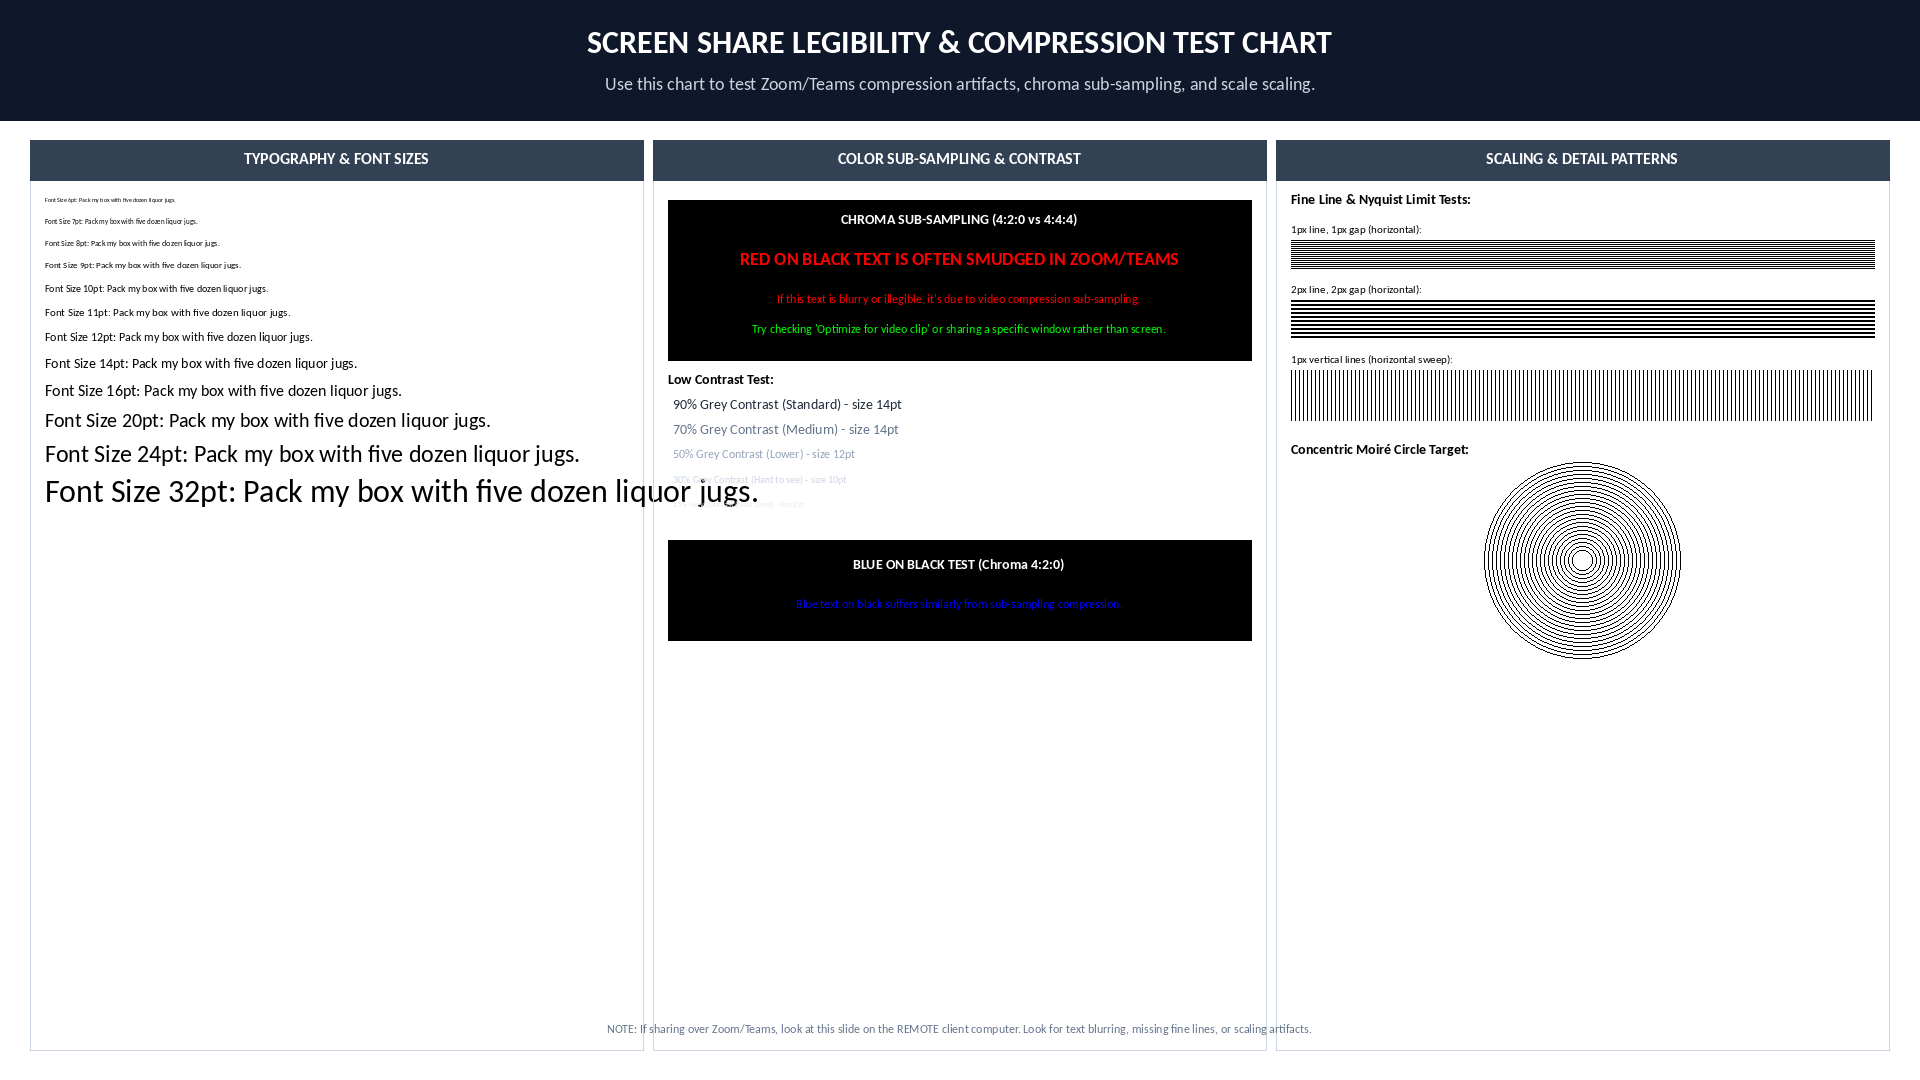
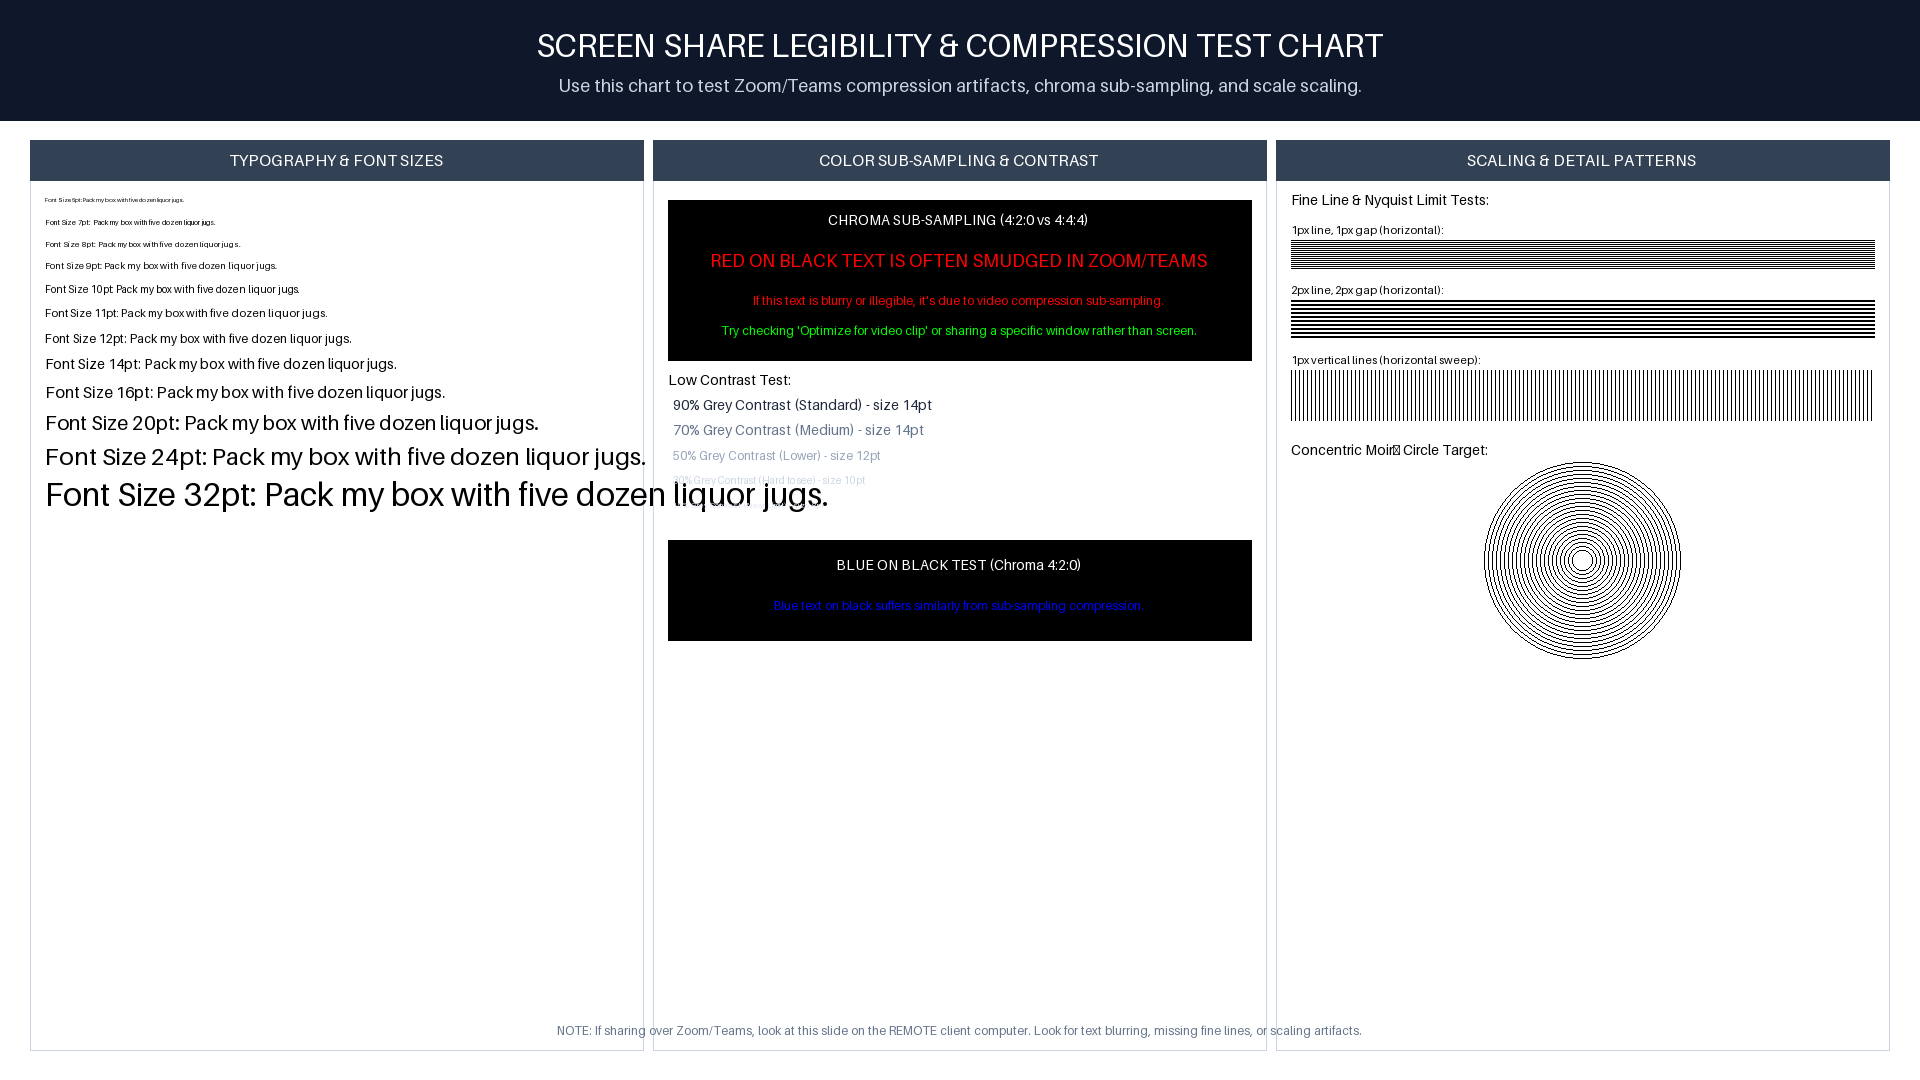
feat: add judder test and color bars loop generators

diff --git a/05_Docs_&_Checklists/generate_toolkit.py b/05_Docs_&_Checklists/generate_toolkit.py
@@ -12,6 +12,7 @@ SCRIPT_DIR = os.path.dirname(os.path.abspath(__file__))
 BASE_DIR = os.path.dirname(SCRIPT_DIR)  # This will be /home/user/Desktop/test_media_toolkit
 AUDIO_DIR = os.path.join(BASE_DIR, "01_Audio_&_Sync")
 DISPLAY_DIR = os.path.join(BASE_DIR, "02_Display_Calibration")
+LOOPS_DIR = os.path.join(BASE_DIR, "03_Looping_Video_Backgrounds")
 TEMP_FRAMES_DIR = os.path.join(BASE_DIR, "temp_frames")
 
 # Fonts
@@ -547,10 +548,229 @@ def generate_av_sync_video(output_mp4, duration=15):
         
     print(f"AV Sync Video generated successfully at: {output_mp4}")
 
+def generate_judder_test_video(output_mp4, duration=10, fps=60):
+    print("Preparing to build Judder & Refresh Rate Video...")
+    os.makedirs(TEMP_FRAMES_DIR, exist_ok=True)
+    
+    total_frames = duration * fps
+    width, height = 1920, 1080
+    
+    font_title = load_font(FONT_BOLD_PATH, 36)
+    font_subtitle = load_font(FONT_REGULAR_PATH, 20)
+    font_bold_mid = load_font(FONT_BOLD_PATH, 24)
+    font_reg_mid = load_font(FONT_REGULAR_PATH, 18)
+    
+    print(f"Drawing {total_frames} video frames at {fps} FPS...")
+    for i in range(total_frames):
+        t_sec = i / fps
+        
+        # Dark background (slate-950)
+        bg_color = (9, 15, 26)
+        image = Image.new("RGB", (width, height), bg_color)
+        draw = ImageDraw.Draw(image)
+        
+        # 1. Header Information
+        draw.text((width // 2, 60), f"DISPLAY REFRESH RATE & JUDDER TEST ({fps} FPS)", font=font_title, fill="white", anchor="mm")
+        draw.text((width // 2, 110), "The red bar should move with perfect smoothness. Stuttering indicates judder/dropped frames.", font=font_subtitle, fill="#94a3b8", anchor="mm")
+        
+        # 2. Draw static reference grid (makes judder / stutter extremely obvious)
+        grid_y_start = 220
+        grid_y_end = 860
+        for gx in range(160, width - 150, 80):
+            draw.line([(gx, grid_y_start), (gx, grid_y_end)], fill="#1e293b", width=1)
+            
+        # 3. Calculate bar position (bouncing left-to-right using a triangle wave or smooth cosine wave)
+        # Bounce cycle: every 2.0 seconds
+        cycle_period = 2.0
+        # Normalised cycle position [0, 1]
+        cycle_pos = (t_sec % cycle_period) / cycle_period
+        # Smooth cosine interpolation
+        pos_ratio = 0.5 - 0.5 * math.cos(2 * math.pi * cycle_pos)
+        
+        track_width = 1600
+        start_x = (width - track_width) // 2
+        bar_width = 24
+        bar_x = int(start_x + pos_ratio * (track_width - bar_width))
+        
+        # Draw moving red bar with white outline
+        draw.rectangle([bar_x, grid_y_start, bar_x + bar_width, grid_y_end], fill="#ef4444", outline="white", width=2)
+        
+        # 4. Calibration Instructions
+        help_box_y = 900
+        draw.rectangle([width // 2 - 600, help_box_y, width // 2 + 600, help_box_y + 110], fill="#0f172a", outline="#334155")
+        draw.text((width // 2 - 580, help_box_y + 25), "JUDDER & V-SYNC CHECK:", font=font_bold_mid, fill="#38bdf8")
+        
+        instructions = [
+            f"- Video encoded at {fps} FPS. Confirm your display is set to 60Hz or higher.",
+            "- Micro-stutters: If the bar seems to hitch or skip, check for PC hardware decoding bottleneck.",
+            "- Screen Tearing: Horizontal tearing line across the bar indicates disabled V-Sync or buffer mismatch."
+        ]
+        curr_inst_y = help_box_y + 55
+        for inst in instructions:
+            draw.text((width // 2 - 580, curr_inst_y), inst, font=font_reg_mid, fill="white", anchor="lm")
+            curr_inst_y += 22
+            
+        # 5. Status footer
+        status_text = f"Frame: {i:03d} / {total_frames} | Time: {t_sec:.2f}s | Speed: {fps} FPS"
+        draw.text((width // 2, height - 35), status_text, font=font_reg_mid, fill="#64748b", anchor="mm")
+        
+        frame_name = os.path.join(TEMP_FRAMES_DIR, f"frame_{i:04d}.png")
+        image.save(frame_name)
+        
+    print("Ffmpeg encoding video...")
+    # Standard format: H.264 MP4 with NO audio stream (ideal for clean looping background video)
+    cmd = [
+        "ffmpeg", "-y",
+        "-r", str(fps),
+        "-i", os.path.join(TEMP_FRAMES_DIR, "frame_%04d.png"),
+        "-c:v", "libx264",
+        "-pix_fmt", "yuv420p",
+        "-an", # No audio track for loops
+        output_mp4
+    ]
+    
+    result = subprocess.run(cmd, stdout=subprocess.PIPE, stderr=subprocess.PIPE, text=True)
+    if result.returncode != 0:
+        print("FFmpeg error output:")
+        print(result.stderr)
+        raise RuntimeError("FFmpeg compilation failed.")
+        
+    # Clean up temp frames directory
+    if os.path.exists(TEMP_FRAMES_DIR):
+        shutil.rmtree(TEMP_FRAMES_DIR)
+        
+    print(f"Judder Test Video generated successfully at: {output_mp4}")
+
+def generate_color_bars_loop(output_mp4, duration=10, fps=30, audio_ref_path=None):
+    print("Preparing to build Moving Color Bars Video...")
+    os.makedirs(TEMP_FRAMES_DIR, exist_ok=True)
+    
+    total_frames = duration * fps
+    width, height = 1920, 1080
+    
+    font_bold = load_font(FONT_BOLD_PATH, 24)
+    font_reg = load_font(FONT_REGULAR_PATH, 16)
+    
+    # 7 standard colors for the top bars
+    bar_colors = [
+        (192, 192, 192), # Light Gray / White
+        (192, 192, 0),   # Yellow
+        (0, 192, 192),   # Cyan
+        (0, 192, 0),     # Green
+        (192, 0, 192),   # Magenta
+        (192, 0, 0),     # Red
+        (0, 0, 192)      # Blue
+    ]
+    bar_width = width // len(bar_colors)
+    
+    print(f"Drawing {total_frames} video frames at {fps} FPS...")
+    for i in range(total_frames):
+        t_sec = i / fps
+        image = Image.new("RGB", (width, height), "black")
+        draw = ImageDraw.Draw(image)
+        
+        # 1. Top 70% color bars
+        bars_height = int(height * 0.7)
+        for idx, color in enumerate(bar_colors):
+            x1 = idx * bar_width
+            x2 = x1 + bar_width if idx < len(bar_colors) - 1 else width
+            draw.rectangle([x1, 0, x2, bars_height], fill=color)
+            
+        # 2. Middle 10% black/white strip
+        mid_height = int(height * 0.8)
+        sq_width = width // 10
+        for s_idx in range(10):
+            s_color = (255, 255, 255) if s_idx % 2 == 0 else (0, 0, 0)
+            draw.rectangle([s_idx * sq_width, bars_height, (s_idx + 1) * sq_width, mid_height], fill=s_color)
+            
+        # 3. Bottom 20% PLUGE calibration pattern & info
+        draw.rectangle([0, mid_height, width, height], fill=(16, 16, 16)) # Standard dark-gray background
+        
+        # Draw PLUGE bars on the bottom left
+        # Standard calibration blocks: -4% (Black 4), 0% (Black 16), +4% (Black 28)
+        pluge_x = 50
+        pluge_y = mid_height + 20
+        pluge_h = height - mid_height - 40
+        
+        # Block 1: -4% Black (Very dark)
+        draw.rectangle([pluge_x, pluge_y, pluge_x + 100, pluge_y + pluge_h], fill=(4, 4, 4))
+        draw.text((pluge_x + 50, pluge_y + pluge_h // 2), "-4% (BLOCKED)", font=font_reg, fill="grey", anchor="mm")
+        
+        # Block 2: 0% Reference Black
+        draw.rectangle([pluge_x + 110, pluge_y, pluge_x + 210, pluge_y + pluge_h], fill=(16, 16, 16))
+        draw.text((pluge_x + 160, pluge_y + pluge_h // 2), "0% (REF BLACK)", font=font_reg, fill="white", anchor="mm")
+        
+        # Block 3: +4% Black (Visible grey)
+        draw.rectangle([pluge_x + 220, pluge_y, pluge_x + 320, pluge_y + pluge_h], fill=(28, 28, 28))
+        draw.text((pluge_x + 270, pluge_y + pluge_h // 2), "+4% (VISIBLE)", font=font_reg, fill="white", anchor="mm")
+        
+        # Draw Calibration Help Text in bottom right
+        info_x = width - 50
+        draw.text((info_x, mid_height + 40), "REFERENCE COLOR BARS & PLUGE PATTERN", font=font_bold, fill="white", anchor="rm")
+        draw.text((info_x, mid_height + 70), "Adjust brightness until '-4%' matches 0% background, and '+4%' is barely visible.", font=font_reg, fill="#94a3b8", anchor="rm")
+        draw.text((info_x, mid_height + 95), f"Duration: {duration}s | {fps} FPS | Reference Tone: 1kHz @ -20dBFS", font=font_reg, fill="#64748b", anchor="rm")
+        
+        # 4. Moving block overlay (Confirms video stream is active, not frozen)
+        # Bounces horizontally in the middle of the color bars
+        block_size = 80
+        bounce_period = 3.0 # bounces every 3 seconds
+        bounce_pos = (t_sec % bounce_period) / bounce_period
+        pos_ratio = 0.5 - 0.5 * math.cos(2 * math.pi * bounce_pos)
+        
+        block_x = int(50 + pos_ratio * (width - 100 - block_size))
+        block_y = bars_height - block_size - 30
+        
+        # Draw bouncing block: white border, black background, red text
+        draw.rectangle([block_x, block_y, block_x + block_size, block_y + block_size], fill="black", outline="white", width=3)
+        draw.text((block_x + block_size // 2, block_y + block_size // 2), f"{i:03d}", font=font_bold, fill="#ef4444", anchor="mm")
+        
+        frame_name = os.path.join(TEMP_FRAMES_DIR, f"frame_{i:04d}.png")
+        image.save(frame_name)
+        
+    print("Ffmpeg encoding video with sync reference audio...")
+    # Assembly: combine frames with the provided reference audio
+    cmd = [
+        "ffmpeg", "-y",
+        "-r", str(fps),
+        "-i", os.path.join(TEMP_FRAMES_DIR, "frame_%04d.png")
+    ]
+    
+    if audio_ref_path and os.path.exists(audio_ref_path):
+        cmd.extend([
+            "-i", audio_ref_path,
+            "-c:v", "libx264",
+            "-pix_fmt", "yuv420p",
+            "-c:a", "aac",
+            "-b:a", "192k",
+            "-shortest" # stops when either video or audio finishes
+        ])
+    else:
+        # If no audio ref is found/provided, write without audio
+        cmd.extend([
+            "-c:v", "libx264",
+            "-pix_fmt", "yuv420p",
+            "-an"
+        ])
+        
+    cmd.append(output_mp4)
+    
+    result = subprocess.run(cmd, stdout=subprocess.PIPE, stderr=subprocess.PIPE, text=True)
+    if result.returncode != 0:
+        print("FFmpeg error output:")
+        print(result.stderr)
+        raise RuntimeError("FFmpeg compilation failed.")
+        
+    # Clean up temp frames directory
+    if os.path.exists(TEMP_FRAMES_DIR):
+        shutil.rmtree(TEMP_FRAMES_DIR)
+        
+    print(f"Moving Color Bars Video generated successfully at: {output_mp4}")
+
 def main():
     # Make sure output directories exist
     os.makedirs(AUDIO_DIR, exist_ok=True)
     os.makedirs(DISPLAY_DIR, exist_ok=True)
+    os.makedirs(LOOPS_DIR, exist_ok=True)
     
     # 1. Generate audio files
     generate_reference_tone(os.path.join(AUDIO_DIR, "audio_01_ref_1khz_tone.wav"))
@@ -565,6 +785,13 @@ def main():
     
     # 3. Generate AV sync video
     generate_av_sync_video(os.path.join(AUDIO_DIR, "video_01_av_sync_latency_test.mp4"))
+    
+    # 4. Generate new background loops for events & testing
+    generate_judder_test_video(os.path.join(LOOPS_DIR, "video_02_judder_refresh_rate_test.mp4"))
+    generate_color_bars_loop(
+        os.path.join(LOOPS_DIR, "video_03_smpte_color_bars_moving.mp4"),
+        audio_ref_path=os.path.join(AUDIO_DIR, "audio_01_ref_1khz_tone.wav")
+    )
     
     print("\nAV TEST TOOLKIT COMPLETED SUCCESSFULLY!")
 

diff --git a/README.md b/README.md
@@ -43,6 +43,8 @@ Visual patterns and documents for display alignment.
 Video assets for digital signage and virtual backgrounds.
 * 🎥 **`CLEANROOM (loop).mp4` / `FLUFFF (loop).mp4`**: Office and textured ambient video loops.
 * 🎥 **`abstract_light_waves.mp4` / `blue_shining_stream_beam.mp4` / `golden_center_light_rays.mp4` / `lines_of_green_lights_move_in_waves.mp4` / `blue_black_vertical_shining_beam.mp4`**: H.264 video loops for screen calibration and signage testing.
+* 🎥 **`video_02_judder_refresh_rate_test.mp4`**: A 60 FPS judder test loop with a moving bar and calibration lines to test refresh rate smoothness and V-Sync.
+* 🎥 **`video_03_smpte_color_bars_moving.mp4`**: 30 FPS color bars with a moving reference block and a 1 kHz tone at -20 dBFS to verify color mapping, display brightness, and signal freeze.
 
 ### 📁 `04_Presentations_&_Scripts/`
 Slide decks, presenter notes, and scripts.